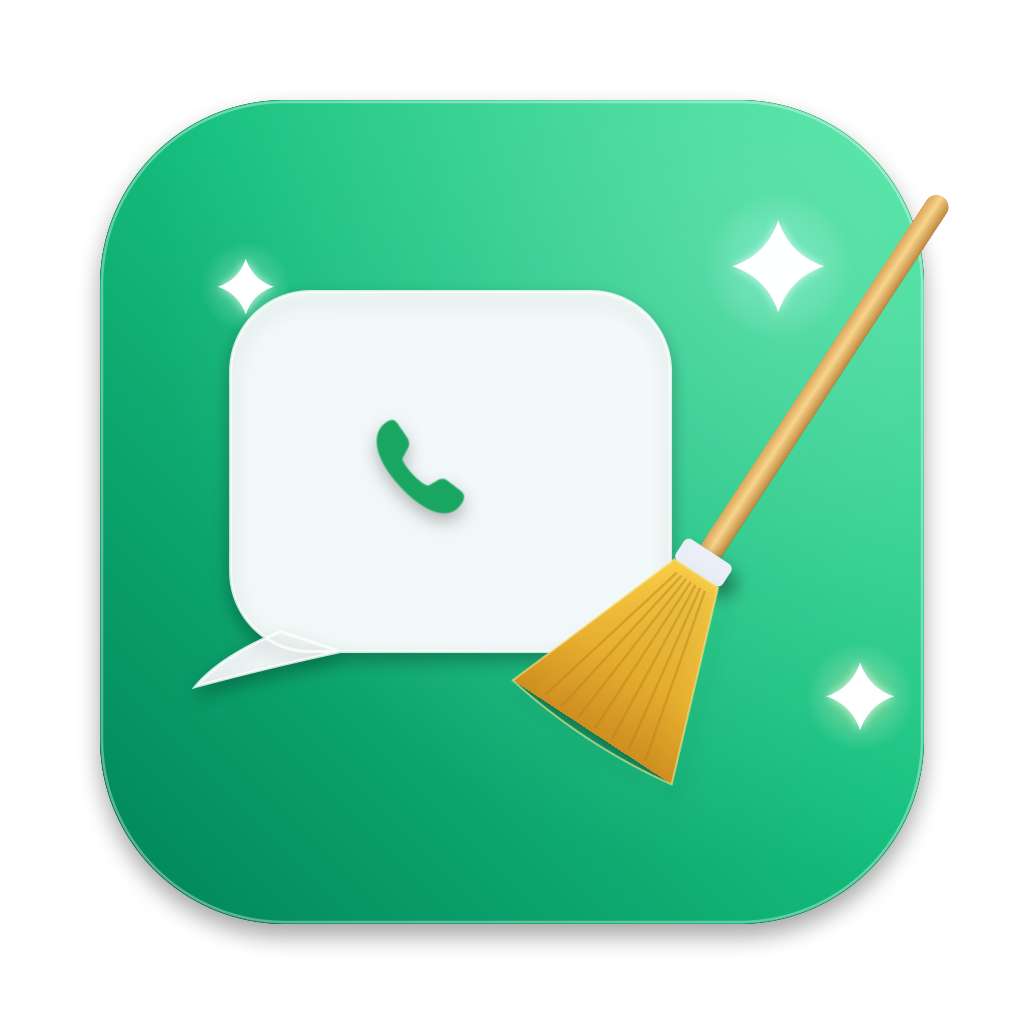
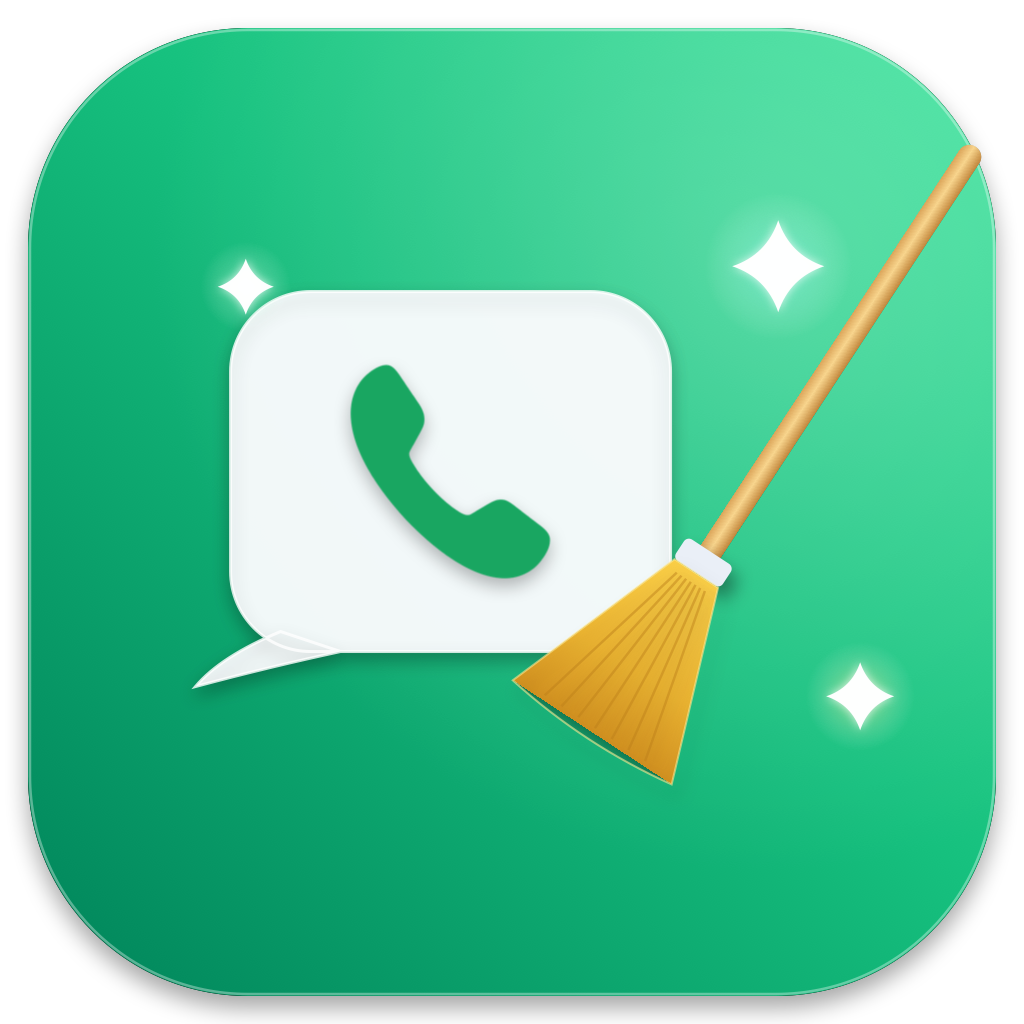
Release WhatsClean 1.0.2

Changed region(s): [[0.0, 0.0, 1.0, 1.0], [0.3438, 0.3438, 0.5625, 0.5938]]

diff --git a/Resources/generate_icon.swift b/Resources/generate_icon.swift
@@ -2,11 +2,12 @@ import AppKit
 import CoreGraphics
 import Foundation
 
-func createIconBitmap(pixels: Int) -> CGImage? {
+func createIconBitmap(pixels: Int, modernCanvas: Bool = false) -> CGImage? {
     let width = pixels
     let height = pixels
     let colorSpace = CGColorSpaceCreateDeviceRGB()
-    let bitmapInfo = CGBitmapInfo(rawValue: CGImageAlphaInfo.premultipliedLast.rawValue)
+    let alphaInfo: CGImageAlphaInfo = modernCanvas ? .noneSkipLast : .premultipliedLast
+    let bitmapInfo = CGBitmapInfo(rawValue: alphaInfo.rawValue)
 
     guard let ctx = CGContext(
         data: nil,
@@ -28,18 +29,22 @@ func createIconBitmap(pixels: Int) -> CGImage? {
     let s = size / 1024.0
 
     // Squircle
-    let margin: CGFloat = 100.0 * s
+    // Keep only a narrow optical margin. A large transparent inset makes
+    // modern macOS releases place the legacy artwork inside a second tile.
+    let margin: CGFloat = (modernCanvas ? 0.0 : 28.0) * s
     let rectSize: CGFloat = size - (margin * 2.0)
-    let cornerRadius: CGFloat = 185.0 * s
+    let cornerRadius: CGFloat = (modernCanvas ? 0.0 : 220.0) * s
     let squircleRect = CGRect(x: margin, y: margin, width: rectSize, height: rectSize)
     let squirclePath = CGPath(roundedRect: squircleRect, cornerWidth: cornerRadius, cornerHeight: cornerRadius, transform: nil)
 
-    ctx.saveGState()
-    ctx.setShadow(offset: CGSize(width: 0, height: -12.0 * s), blur: 24.0 * s, color: CGColor(red: 0, green: 0, blue: 0, alpha: 0.35))
-    ctx.addPath(squirclePath)
-    ctx.setFillColor(CGColor(red: 0, green: 0, blue: 0, alpha: 1.0))
-    ctx.fillPath()
-    ctx.restoreGState()
+    if !modernCanvas {
+        ctx.saveGState()
+        ctx.setShadow(offset: CGSize(width: 0, height: -12.0 * s), blur: 24.0 * s, color: CGColor(red: 0, green: 0, blue: 0, alpha: 0.35))
+        ctx.addPath(squirclePath)
+        ctx.setFillColor(CGColor(red: 0, green: 0, blue: 0, alpha: 1.0))
+        ctx.fillPath()
+        ctx.restoreGState()
+    }
 
     // Background Emerald Gradient
     ctx.saveGState()
@@ -64,11 +69,13 @@ func createIconBitmap(pixels: Int) -> CGImage? {
         ctx.drawRadialGradient(glowGradient, startCenter: CGPoint(x: size * 0.75, y: size * 0.75), startRadius: 0, endCenter: CGPoint(x: size * 0.75, y: size * 0.75), endRadius: size * 0.6, options: [])
     }
 
-    let innerBorder = CGPath(roundedRect: squircleRect.insetBy(dx: 2.0 * s, dy: 2.0 * s), cornerWidth: cornerRadius - 2.0 * s, cornerHeight: cornerRadius - 2.0 * s, transform: nil)
-    ctx.addPath(innerBorder)
-    ctx.setLineWidth(2.5 * s)
-    ctx.setStrokeColor(CGColor(red: 1.0, green: 1.0, blue: 1.0, alpha: 0.35))
-    ctx.strokePath()
+    if !modernCanvas {
+        let innerBorder = CGPath(roundedRect: squircleRect.insetBy(dx: 2.0 * s, dy: 2.0 * s), cornerWidth: cornerRadius - 2.0 * s, cornerHeight: cornerRadius - 2.0 * s, transform: nil)
+        ctx.addPath(innerBorder)
+        ctx.setLineWidth(2.5 * s)
+        ctx.setStrokeColor(CGColor(red: 1.0, green: 1.0, blue: 1.0, alpha: 0.35))
+        ctx.strokePath()
+    }
     ctx.restoreGState()
 
     // Central Chat Message Bubble
@@ -100,8 +107,8 @@ func createIconBitmap(pixels: Int) -> CGImage? {
     ctx.setStrokeColor(CGColor(red: 1.0, green: 1.0, blue: 1.0, alpha: 0.8))
     ctx.strokePath()
 
-    let phoneSize = 110.0 * s
-    let phoneCenter = CGPoint(x: bubbleCenter.x - 30*s, y: bubbleCenter.y + 25*s)
+    let phoneSize = 250.0 * s
+    let phoneCenter = CGPoint(x: bubbleRect.midX, y: bubbleRect.midY)
     let phoneRect = CGRect(x: phoneCenter.x - phoneSize/2, y: phoneCenter.y - phoneSize/2, width: phoneSize, height: phoneSize)
     if let phoneImg = NSImage(systemSymbolName: "phone.fill", accessibilityDescription: nil) {
         let tinted = NSImage(size: NSSize(width: phoneSize, height: phoneSize))
@@ -125,7 +132,9 @@ func createIconBitmap(pixels: Int) -> CGImage? {
     ctx.setShadow(offset: CGSize(width: 6.0 * s, height: -12.0 * s), blur: 18.0 * s, color: CGColor(red: 0, green: 0, blue: 0, alpha: 0.38))
 
     let handleWidth = 24.0 * s
-    let handleHeight = 440.0 * s
+    // Let the handle break the green silhouette slightly, while keeping the
+    // important part inside the 1024 px canvas at every generated size.
+    let handleHeight = (modernCanvas ? 430.0 : 500.0) * s
     let handleRect = CGRect(x: -handleWidth/2, y: 10*s, width: handleWidth, height: handleHeight)
     let handlePath = CGPath(roundedRect: handleRect, cornerWidth: 12.0 * s, cornerHeight: 12.0 * s, transform: nil)
 
@@ -220,10 +229,19 @@ func saveCGImageAsPNG(image: CGImage, path: String) {
     CGImageDestinationFinalize(dest)
 }
 
-if let img = createIconBitmap(pixels: 1024) {
-    let outputPath = CommandLine.arguments.dropFirst().first
+let outputPath = CommandLine.arguments.dropFirst().first
         ?? URL(fileURLWithPath: FileManager.default.currentDirectoryPath)
             .appendingPathComponent("Resources/AppIcon.png").path
+let modernOutputPath = CommandLine.arguments.dropFirst(2).first
+        ?? URL(fileURLWithPath: FileManager.default.currentDirectoryPath)
+            .appendingPathComponent("Resources/AppIconModern.png").path
+
+if let img = createIconBitmap(pixels: 1024) {
     saveCGImageAsPNG(image: img, path: outputPath)
     print("Icon generated at \(outputPath)")
+}
+
+if let modernImg = createIconBitmap(pixels: 1024, modernCanvas: true) {
+    saveCGImageAsPNG(image: modernImg, path: modernOutputPath)
+    print("Modern icon generated at \(modernOutputPath)")
 }

diff --git a/Packaging/Homebrew/Casks/whatsclean.rb b/Packaging/Homebrew/Casks/whatsclean.rb
@@ -1,6 +1,6 @@
 cask "whatsclean" do
-  version "1.0.1"
[1 lines of base64/hex data omitted]
+  version "1.0.2"
[1 lines of base64/hex data omitted]
 
   url "https://github.com/vviniciusbarreto/WhatsClean/releases/download/v#{version}/WhatsClean-#{version}-arm64.zip"
   name "WhatsClean"

diff --git a/README.md b/README.md
@@ -68,7 +68,7 @@ The generated app, DMG, and ZIP are written to the project directory.
 ## Create a release
 
 ```bash
-./scripts/release.sh 1.0.1 2
+./scripts/release.sh 1.0.2 3
 ```
 
 The Sparkle private signing key remains in the macOS Keychain and must never be committed or shared.
